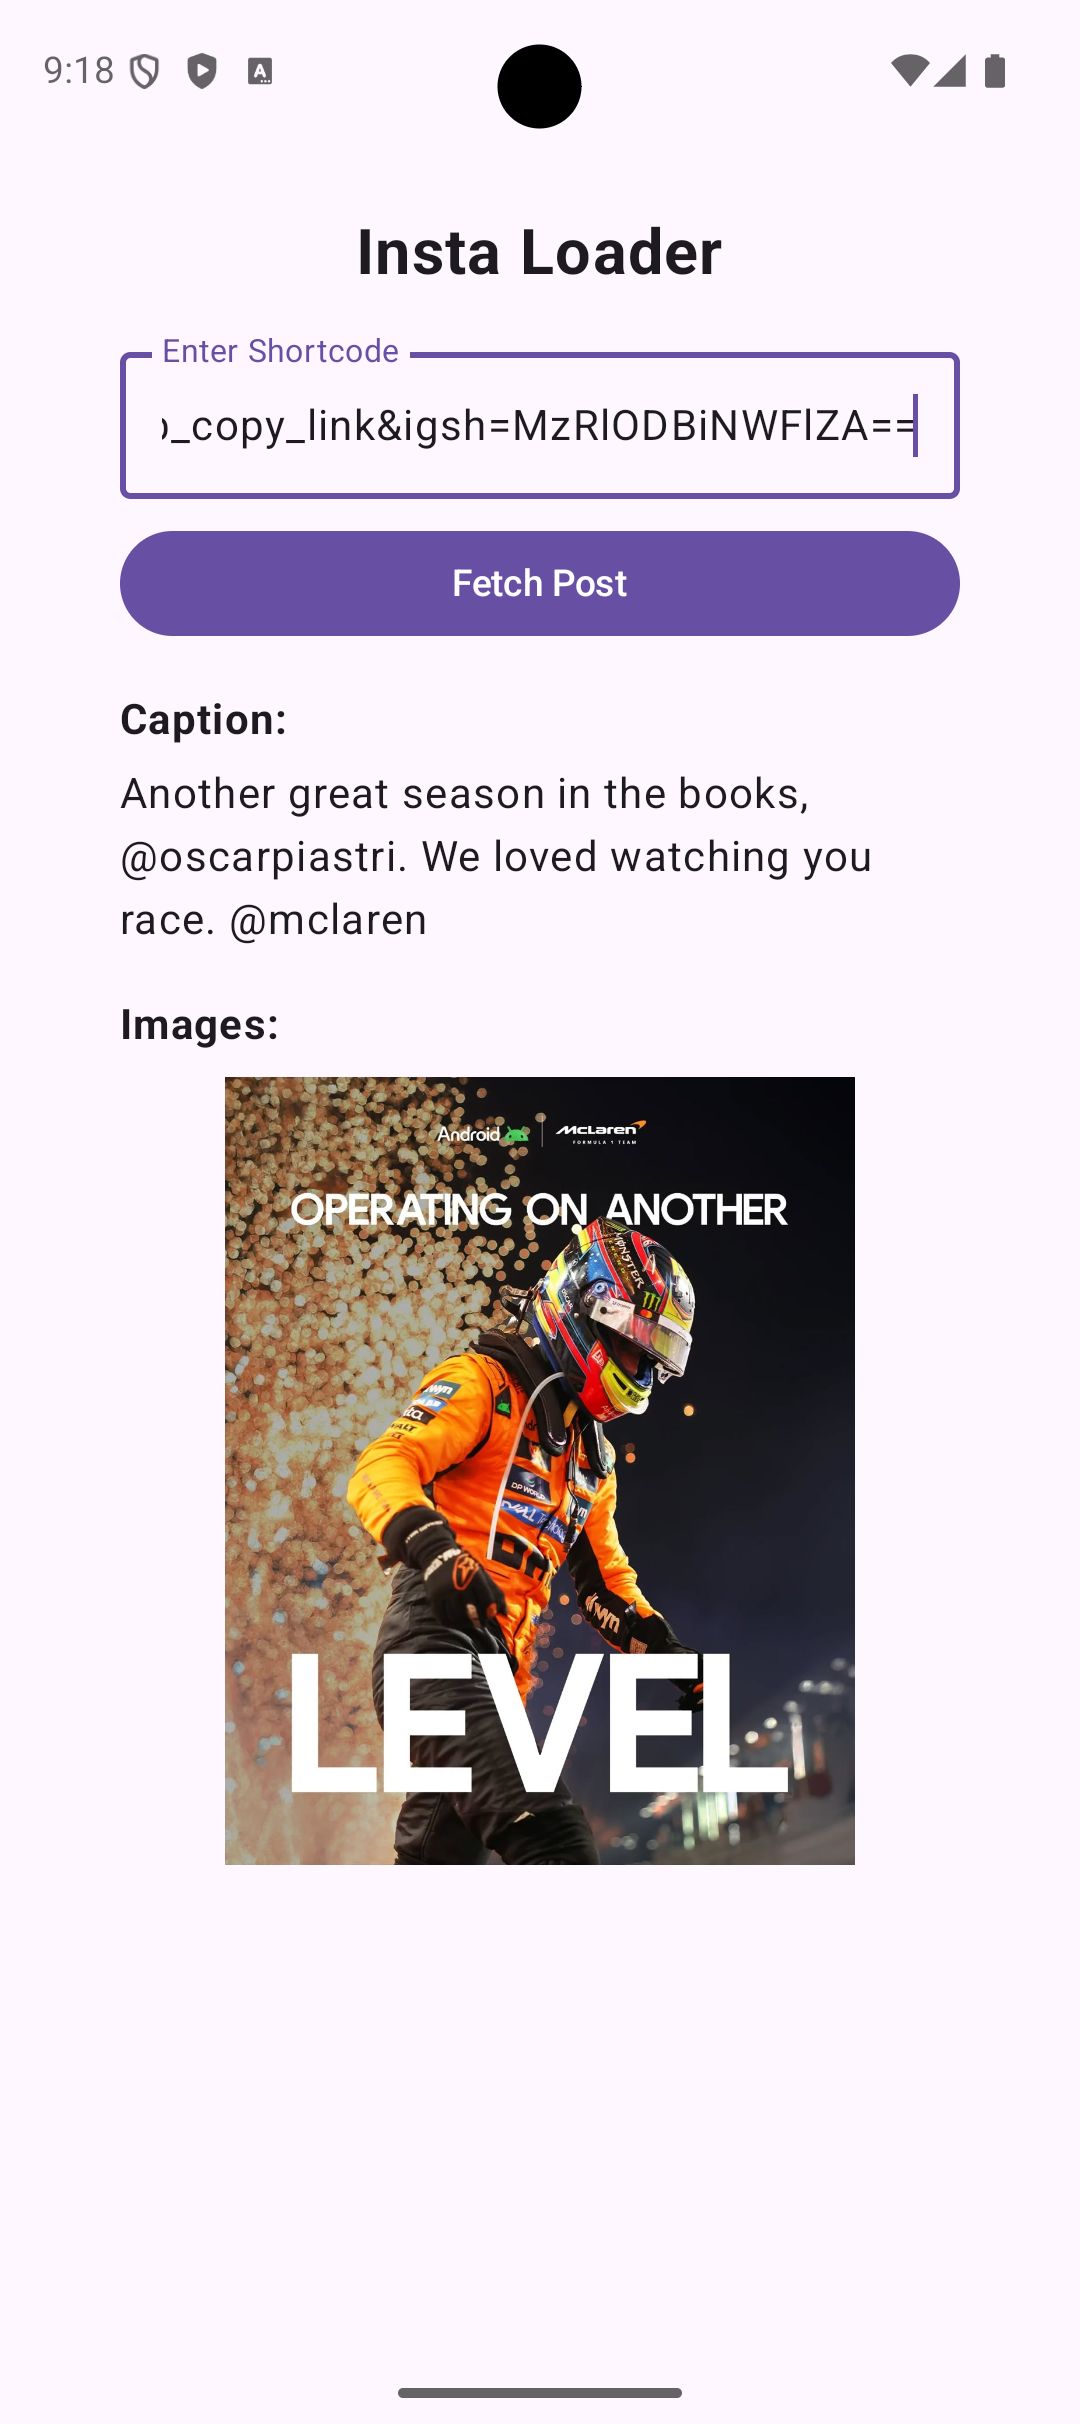
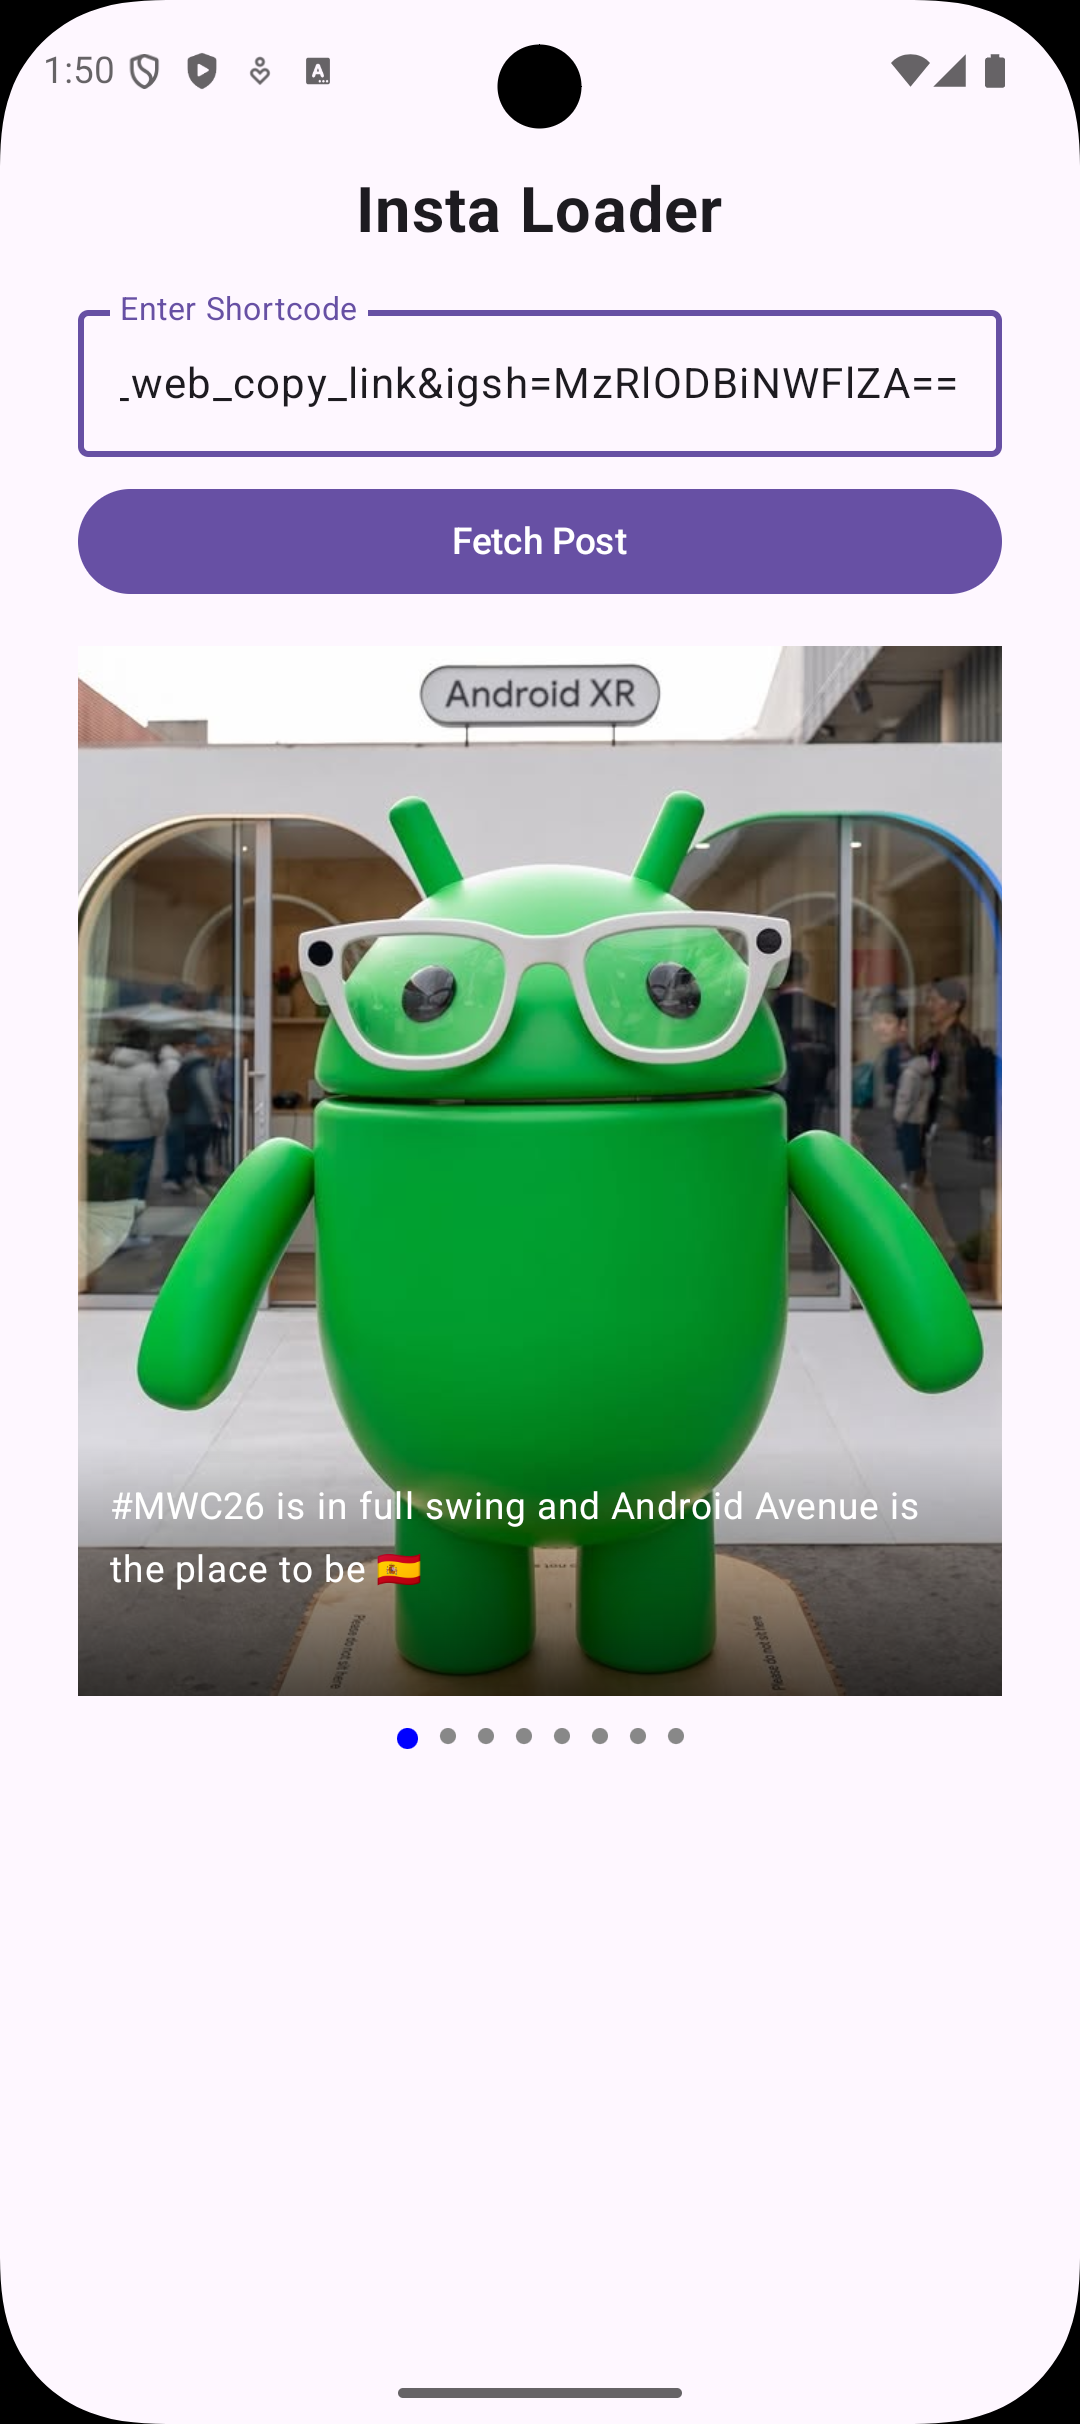
LazyColumn image list changed into insta post UI

diff --git a/composeApp/src/commonMain/kotlin/dev/livin/instaloader/App.kt b/composeApp/src/commonMain/kotlin/dev/livin/instaloader/App.kt
@@ -1,13 +1,20 @@
 package dev.livin.instaloader
 
+import androidx.compose.foundation.ExperimentalFoundationApi
 import androidx.compose.foundation.background
 import androidx.compose.foundation.layout.*
 import androidx.compose.foundation.lazy.LazyColumn
 import androidx.compose.foundation.lazy.items
+import androidx.compose.foundation.pager.HorizontalPager
+import androidx.compose.foundation.pager.rememberPagerState
+import androidx.compose.foundation.shape.CircleShape
 import androidx.compose.material3.*
 import androidx.compose.runtime.*
 import androidx.compose.ui.Alignment
 import androidx.compose.ui.Modifier
+import androidx.compose.ui.draw.clip
+import androidx.compose.ui.graphics.Brush
+import androidx.compose.ui.graphics.Color
 import androidx.compose.ui.layout.ContentScale
 import androidx.compose.ui.text.font.FontWeight
 import androidx.compose.ui.tooling.preview.Preview
@@ -40,7 +47,6 @@ fun InstaLoaderScreen(viewModel: InstaViewModel = viewModel { InstaViewModel() }
     Column(
         modifier = Modifier
             .fillMaxSize()
-            .padding(16.dp)
             .safeContentPadding(),
         horizontalAlignment = Alignment.CenterHorizontally
     ) {
@@ -74,12 +80,15 @@ fun InstaLoaderScreen(viewModel: InstaViewModel = viewModel { InstaViewModel() }
             is InstaUiState.Idle -> {
                 Text("Enter a shortcode to see post details")
             }
+
             is InstaUiState.Loading -> {
                 CircularProgressIndicator()
             }
+
             is InstaUiState.Success -> {
                 PostDetails(state.post)
             }
+
             is InstaUiState.Error -> {
                 Text(
                     text = state.message,
@@ -90,36 +99,74 @@ fun InstaLoaderScreen(viewModel: InstaViewModel = viewModel { InstaViewModel() }
     }
 }
 
+@OptIn(ExperimentalFoundationApi::class)
 @Composable
 fun PostDetails(post: dev.livin.instaloader.model.InstaPost) {
+
+    val pagerState = rememberPagerState(pageCount = { post.images.size })
+
     Column(modifier = Modifier.fillMaxWidth()) {
-        Text(
-            text = "Caption:",
-            fontWeight = FontWeight.Bold,
-            modifier = Modifier.padding(bottom = 4.dp)
-        )
-        Text(
-            text = post.caption,
-            modifier = Modifier.padding(bottom = 16.dp)
-        )
 
-        Text(
-            text = "Images: (${post.images.size})",
-            fontWeight = FontWeight.Bold,
-            modifier = Modifier.padding(bottom = 8.dp)
-        )
+        Box {
 
-        LazyColumn(
-            modifier = Modifier.fillMaxWidth(),
-            verticalArrangement = Arrangement.spacedBy(8.dp)
-        ) {
-            items(post.images) { imageUrl ->
+            // 🔹 Horizontal swipe images
+            HorizontalPager(
+                state = pagerState,
+                modifier = Modifier.fillMaxWidth()
+            ) { page ->
+
                 AsyncImage(
-                    model = imageUrl,
+                    model = post.images[page],
                     contentDescription = null,
                     modifier = Modifier
-                        .fillMaxWidth(),
-                    contentScale = ContentScale.Inside
+                        .fillMaxWidth()
+                        .height(400.dp),
+                    contentScale = ContentScale.Crop
+                )
+            }
+
+            // 🔹 Caption overlay (bottom gradient)
+            Box(
+                modifier = Modifier
+                    .align(Alignment.BottomStart)
+                    .fillMaxWidth()
+                    .background(
+                        Brush.verticalGradient(
+                            colors = listOf(
+                                Color.Transparent,
+                                Color.Black.copy(alpha = 0.7f)
+                            )
+                        )
+                    )
+                    .padding(12.dp)
+            ) {
+                Text(
+                    text = post.caption,
+                    color = Color.White,
+                    fontSize = 14.sp,
+                    maxLines = 3
+                )
+            }
+        }
+
+        Spacer(modifier = Modifier.height(8.dp))
+
+        // 🔹 Dot indicator
+        Row(
+            modifier = Modifier.fillMaxWidth(),
+            horizontalArrangement = Arrangement.Center
+        ) {
+            repeat(post.images.size) { index ->
+                val isSelected = pagerState.currentPage == index
+
+                Box(
+                    modifier = Modifier
+                        .padding(4.dp)
+                        .size(if (isSelected) 8.dp else 6.dp)
+                        .clip(CircleShape)
+                        .background(
+                            if (isSelected) Color.Blue else Color.Gray
+                        )
                 )
             }
         }
